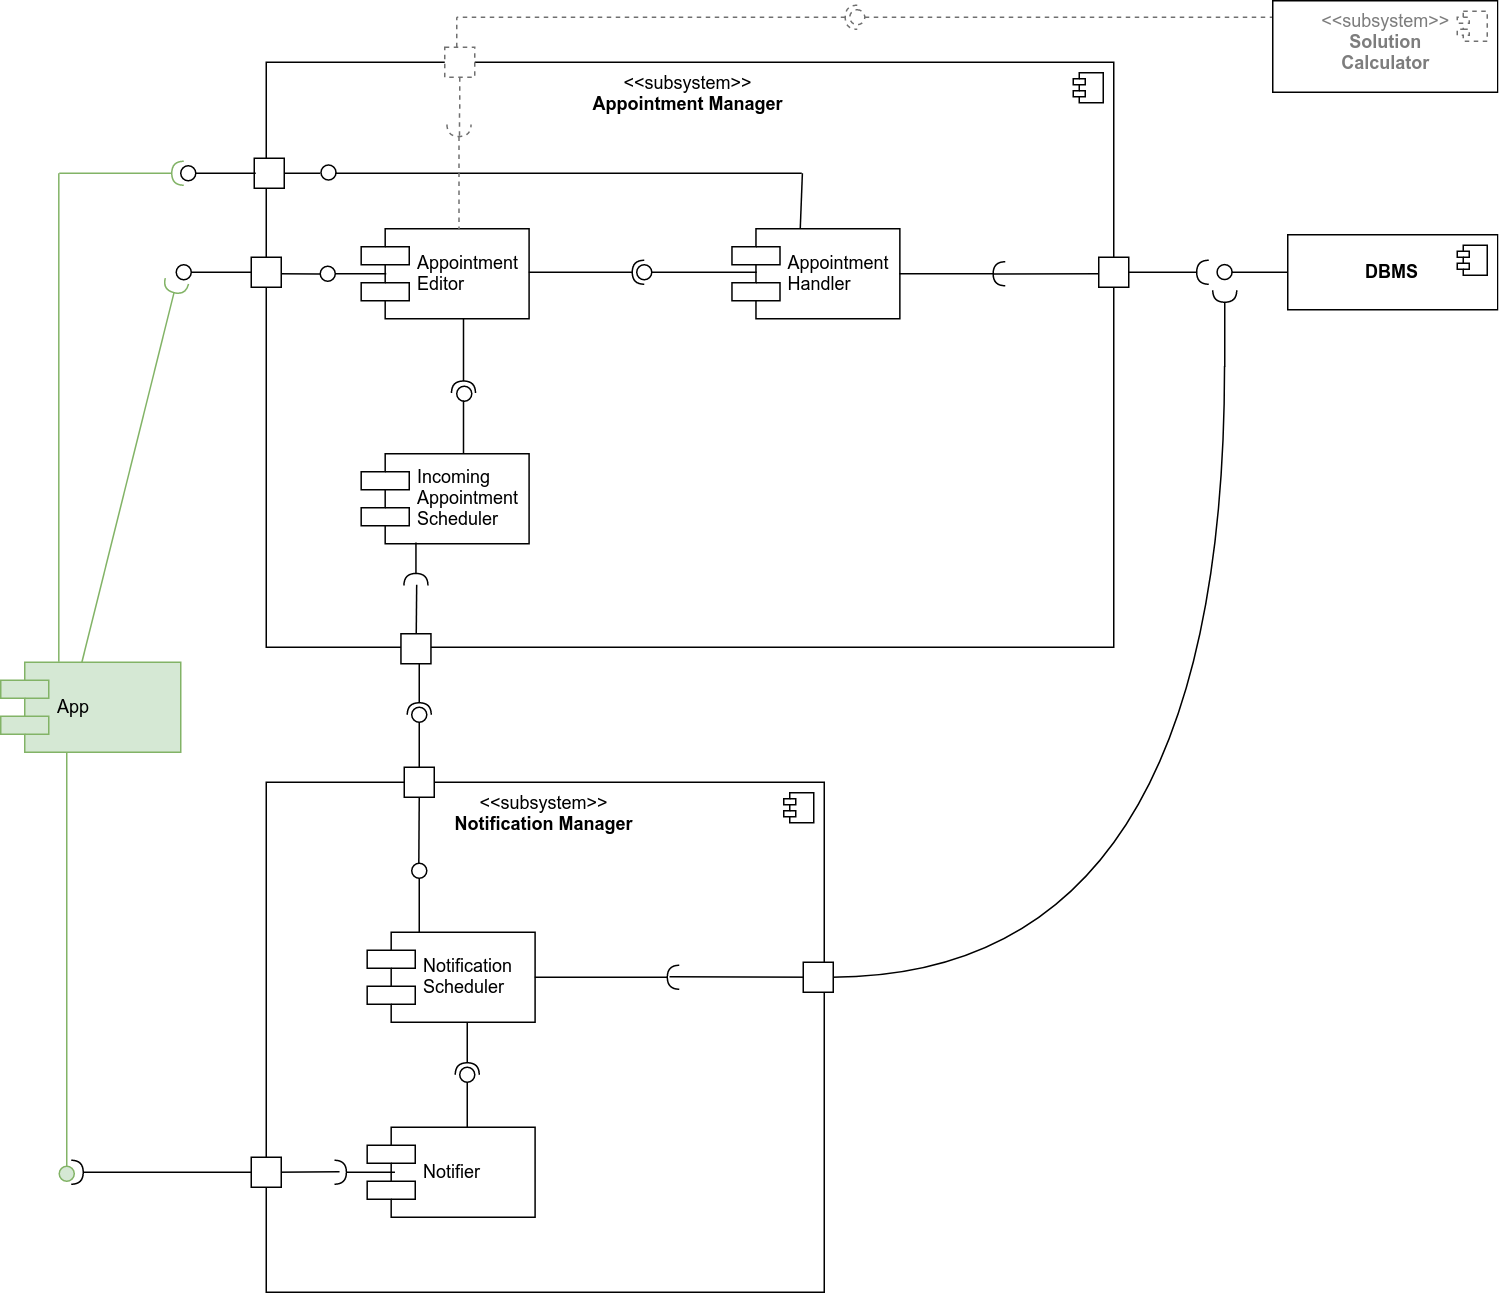
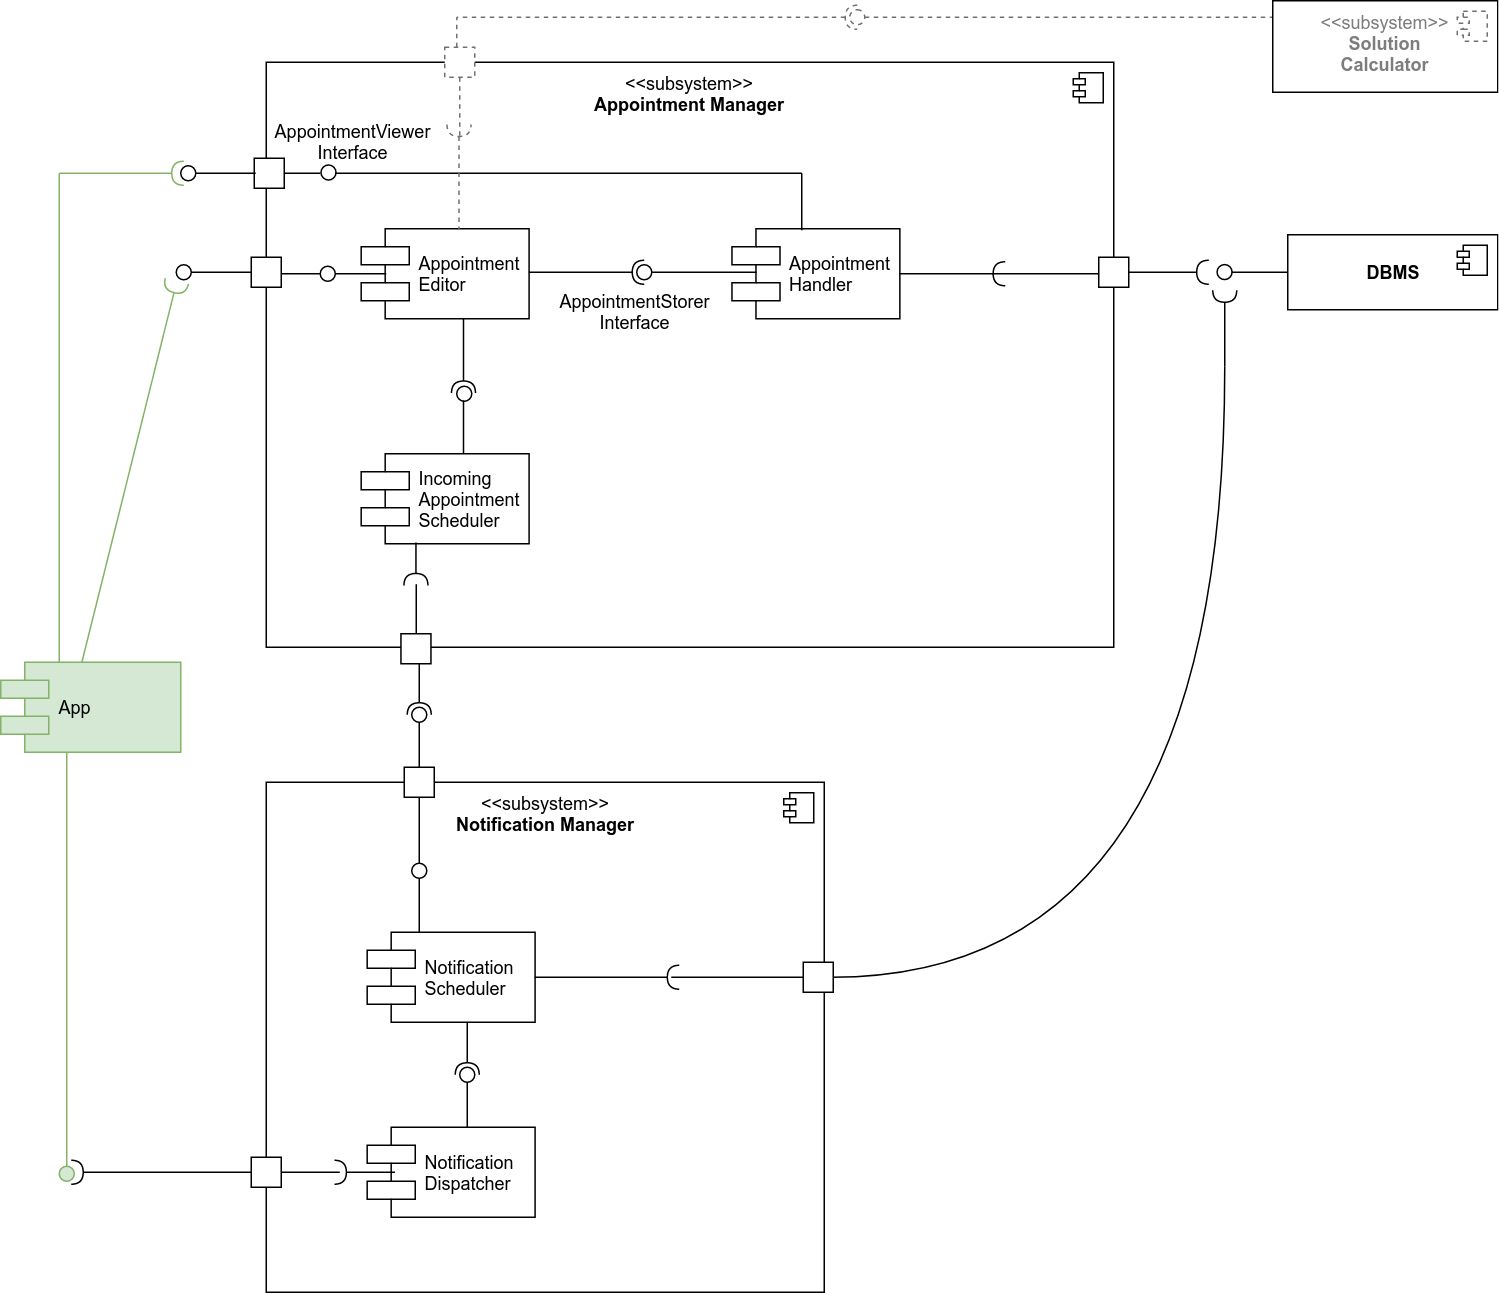
add component interfaces

diff --git a/DD/latex/sections/architecturalDesign.tex b/DD/latex/sections/architecturalDesign.tex
@@ -35,8 +35,8 @@
 		\bigskip
 		Notification Manager provide an interface for the creation of new notification and it is composed by two module:
 		\begin{description}[before={\renewcommand{\makelabel}[1]{-- \textit{##1}:}}]
-			\item[Notification Scheduler] this is the module whose interface is actually exported and it manages the creation of new notifications, stores them in the database and schedules their dispatch. When it is time to send a notification this module uses the interface provided by Notifier and delegate to it the dispatching procedure.
-			\item[Notifier] it is in charge of the actual dispatch of the notification.
+			\item[Notification Scheduler] this is the module whose interface is actually exported and it manages the creation of new notifications, stores them in the database and schedules their dispatch. When it is time to send a notification this module uses the interface provided by Notification Dispatcher and delegate to it the dispatching procedure.
+			\item[Notification Dispatcher] it is in charge of the actual dispatch of the notification.
 		\end{description}
 		
 		\begin{figure}[H]	
@@ -49,7 +49,7 @@
 		\label{sect:InvitationManager}
 		The Invitation Manager component is the module that manages all the aspects related to invitations, from their creation to the acceptance/refusal of the invited Users/Persons. It is divided into two subcomponents. A sequence diagram is provided in section \ref{sect:RuntimeView}.
 		\begin{description}[before={\renewcommand{\makelabel}[1]{-- \textit{##1}:}}]
-			\item[Invitation Generator] it manages the creation of a new invitations 
+			\item[Invitation Generator] it manages the invitation from the point of view of the creator of an appointment: creation and management of invitations
 			\item[Invitation Handler] it is concerned with the acceptance/refusal of the invitations sent.
 		\end{description}
 		
@@ -149,8 +149,82 @@
 			\caption{Object Diagram - Weather Module After Balancing and Reconfiguration}
 		\end{figure}
 \subsection{Component interfaces}
-	% TODO
+	We describe here most of the interfaces used and provided by the components defined in this section. The interfaces we do not describe here are considered as trivial and as so, assumed to not need any description. An example of interfaces not described are the one used in the Weather/Traffic modules, where they are mainly the standard interfaces of any publish subscribe system.
+	\newline
+	The User who asks for the service is never passed as parameter because it is meant to be retrieved as a session parameter.
 	
+	\paragraph{Appointment Manager}
+		\subparagraph{AppointmentEditorInterface}
+			\begin{itemize}
+				\item \inlinecode{void newAppointment(String name, String description, Date, Time, Location)}
+				\item \inlinecode{void deleteAppointment(AppointmentId)}
+				\item \inlinecode{void updateName(AppointmentId, String name)}
+				\item \inlinecode{void updateDescription(AppointmentId, String description)}
+				\item \inlinecode{void updateDate(AppointmentId, Date)}
+				\item \inlinecode{void updateTime(AppointmentId, Time)}
+				\item \inlinecode{void updateLocation(AppointmentId, Location)}
+				\item \inlinecode{void setTravelPlan(AppointmentId, TravelPlan)}
+			\end{itemize}
+		\subparagraph{AppointmentViewerInterface}
+			\begin{itemize}
+				\item \inlinecode{Appointment[] getList(Date from, Date to)}
+				\item \inlinecode{Appointment getAppointment(AppointmentId)}
+			\end{itemize}
+		\subparagraph{AppointmentStorerInterface}
+			\begin{itemize}
+				\item \inlinecode{void update(AppointmentId, Appointment)}
+				\item \inlinecode{void deleteAppointment(AppointmentId)}
+				\item \inlinecode{void newAppointment(AppointmentId)}
+			\end{itemize}
+		\subparagraph{IncomingAppointmentSchedulerInterface}
+			\begin{itemize}
+				\item \inlinecode{void schedule(Appointment)}
+			\end{itemize}
+
+	\paragraph{Notification Manager}
+		\mbox{}\newline
+		This module makes use of the Data Interface, \inlinecode{Notificable}, that is an interface extended by all the objects that can be sent as Notification.
+		\subparagraph{NotificationManagerInterface}
+			\begin{itemize}
+				\item \inlinecode{void instantNotification(User, Notificable)}
+				\item \inlinecode{void schedule(User, Notificable, time, date)}
+				\item \inlinecode{void unschedule(NotificationId)}
+				\item \inlinecode{void reschedule(NotificationId, time, date)}
+			\end{itemize}
+
+		\subparagraph{NotificationDispatcherInt}
+			\begin{itemize}
+				\item \inlinecode{void notify(User, Notificable)}
+			\end{itemize}
+
+	\paragraph{Invitation Manager}
+		\subparagraph{InvitationGeneratorInterface}
+			\begin{itemize}
+				\item \inlinecode{void invite(Appointment, emails[])}
+				\item \inlinecode{void removeInvitation(Appointment, emails)}
+				\item \inlinecode{emails[] retrieveInvitations(Appointment)}
+			\end{itemize}
+
+		\subparagraph{InvitationHandlerInterface}
+			\begin{itemize}
+				\item \inlinecode{void accept(AppointmentId)}
+				\item \inlinecode{void reject(AppointmentId)}
+				\item \inlinecode{Invitation[] retrieveInvitations()}
+			\end{itemize}
+
+	\paragraph{Ticket Manager}
+		\subparagraph{PaymentHandlerInterface}
+			\begin{itemize}
+				\item \inlinecode{void pay(Ticket, TransportationCompany)}
+			\end{itemize}
+		\subparagraph{PurchaseManagerInterface}
+			\begin{itemize}
+				\item \inlinecode{Tickets[] retrieveTickets(Ride)}
+			\end{itemize}
+		\subparagraph{RideControllerInterface}
+			\begin{itemize}
+				\item \inlinecode{Map(Ride,Tickets[]) getTickets(TravelPlan)}
+			\end{itemize}
 \subsection{Selected architectural styles and patterns}
 	% TODO
 	
